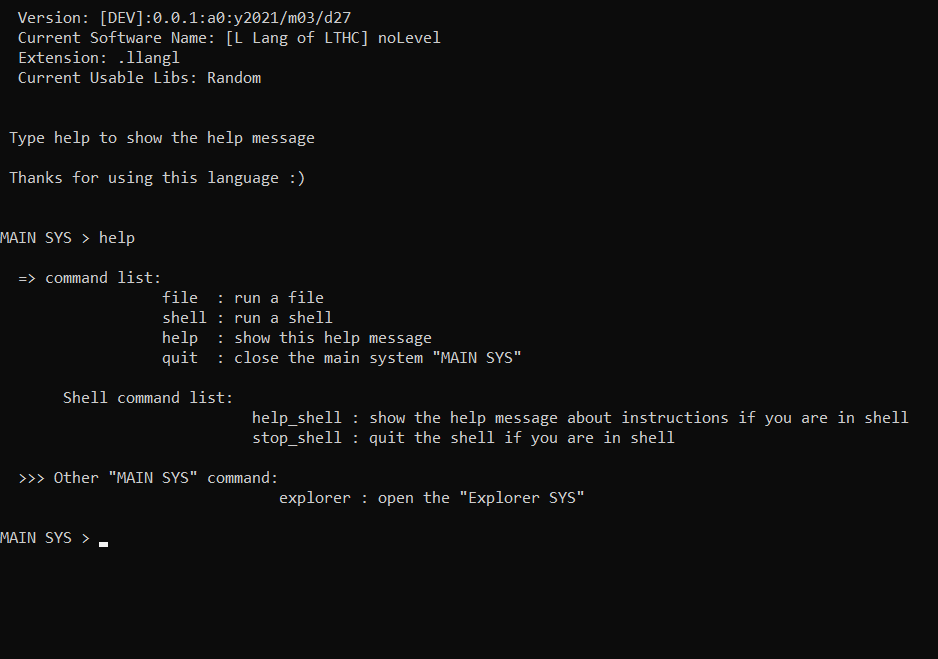
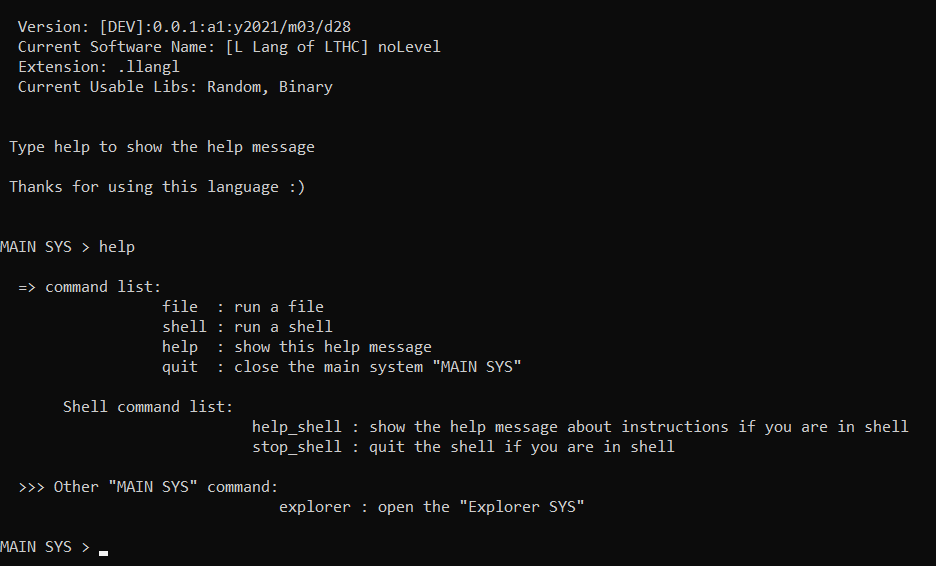
Update binary lib

diff --git a/libs/libraries/binary/var_lib.py b/libs/libraries/binary/var_lib.py
@@ -61,6 +61,13 @@ class Bin8:
         else:
             if type(value) == int:
                 self.value = self.conversion(value)
+                temp = self.value
+                if len(temp) < 8:
+                    for i in range(8-len(temp)):
+                        temp = '0' + temp
+                if len(temp) > 8:
+                    temp = temp[-8:len(temp)]
+                self.value = temp
             else:
                 print('\nLibrary Error: Binary: The specify value must be an integer')
     
@@ -126,6 +133,13 @@ class Bin16:
         else:
             if type(value) == int:
                 self.value = self.conversion(value)
+                temp = self.value
+                if len(temp) < 16:
+                    for i in range(16-len(temp)):
+                        temp = '0' + temp
+                if len(temp) > 16:
+                    temp = temp[-16:len(temp)]
+                self.value = temp
             else:
                 print('\nLibrary Error: Binary: The specify value must be an integer')
     
@@ -191,6 +205,13 @@ class Bin32:
         else:
             if type(value) == int:
                 self.value = self.conversion(value)
+                temp = self.value
+                if len(temp) < 32:
+                    for i in range(32-len(temp)):
+                        temp = '0' + temp
+                if len(temp) > 32:
+                    temp = temp[-32:len(temp)]
+                self.value = temp
             else:
                 print('\nLibrary Error: Binary: The specify value must be an integer')
     

diff --git a/mainsys/byfile.py b/mainsys/byfile.py
@@ -6,7 +6,6 @@
 # IMPORTS
 ############
 import libs.readline as rl
-import libs.sys_methods as sm
 
 ###############
 # Claim file
@@ -56,4 +55,3 @@ def run():
     t = None
     while t == None:
         t = input('')
-    sm.varnames = ['DefaultNumVar_CreatedByLanguageSystem_00000000','DefaultStrVar_CreatedByLanguageSystem_00000000','DefaultStrVarAll_CreatedByLanguageSystem_00000000','DefaultFuncVar_CreatedByLanguageSystem_00000000']

diff --git a/settings/checker.py b/settings/checker.py
@@ -5,7 +5,7 @@
 _version_state = '[DEV]'
 _version_num = '0.0.1'
 _version_subnum = 'a1'
-_version_release_date = 'y2021/m03/d27'
+_version_release_date = 'y2021/m03/d28'
 
 _libs_list = 'Random, Binary'
 
